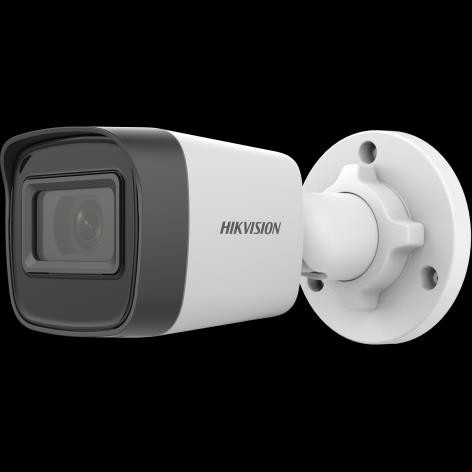
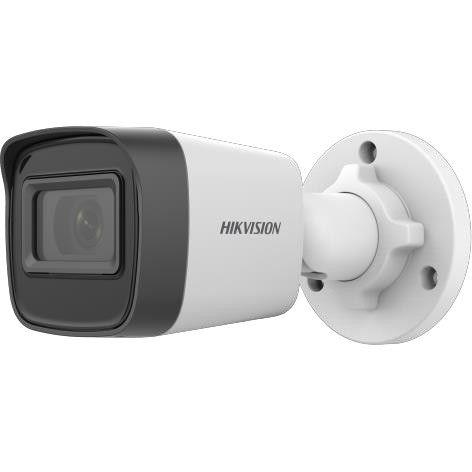
tienda: fotos de producto más compactas + Hikvision 2043G2 sobre blanco
- Tarjetas de Cámaras: la zona de foto pasa de aspect-ratio 1/1 (crecía a media
  pantalla) a alto fijo 210px desktop / 170px móvil, con object-fit contain y
  padding moderado. Así entran 3 tarjetas enteras en un viewport desktop. Badge,
  chips, botón y grid quedan igual, solo más compactos.
- La foto de la Hikvision DS-2CD2043G2-I venía sobre fondo NEGRO y desentonaba
  con las demás (blancas). No existe imagen oficial de Hikvision del modelo sobre
  blanco, pero su ficha PDF trae la foto con soft-mask (alfa): el script ahora
  aplica esa máscara para recortar la cámara del negro y aplanarla sobre blanco,
  quedando consistente. Sigue siendo el asset oficial, solo recompuesto.

Claude-Session: https://claude.ai/code/session_01HCYTTS2uuxYLtvFnNnqaSs

diff --git a/css/styles.css b/css/styles.css
@@ -2168,11 +2168,11 @@ main {
 }
 .producto-foto {
   background: #fff;                       /* la foto trae fondo blanco: se integra */
-  aspect-ratio: 1 / 1;
+  height: 210px;                          /* alto fijo: sin esto la foto crecía a media pantalla */
   display: flex;
   align-items: center;
   justify-content: center;
-  padding: 20px;
+  padding: 16px;
 }
 .producto-foto img {
   max-width: 100%;
@@ -2244,4 +2244,5 @@ main {
 .producto-cotizar:hover { background: #16b34a; }
 
 @media (max-width: 900px) { .productos-grid { grid-template-columns: repeat(2, 1fr); } }
+@media (max-width: 760px) { .producto-foto { height: 170px; padding: 14px; } }
 @media (max-width: 520px) { .productos-grid { grid-template-columns: 1fr; } }

diff --git a/scripts/fetch_product_images.py b/scripts/fetch_product_images.py
@@ -97,28 +97,36 @@ def _imagen_de_pdf(data):
         # Solo pagina 1; -all conserva el formato original de cada imagen embebida.
         subprocess.run(["pdfimages", "-all", "-f", "1", "-l", "1", pdf,
                         os.path.join(td, "img")], check=True, capture_output=True)
-        # La foto de producto es un lienzo CUADRADO (~472x472); el membrete de la
-        # ficha es una imagen apaisada tamaño-pagina, y los iconos/logos son
-        # chicos. Nos quedamos con la imagen mas grande de aspecto ~cuadrado.
-        candidatos = []
+        imgs = []
         for name in sorted(os.listdir(td)):
             if not name.startswith("img"):
                 continue
             try:
                 im = Image.open(os.path.join(td, name))
                 im.load()
-            except Exception:                      # noqa: BLE001 — mascaras/otros no-imagen
+            except Exception:                      # noqa: BLE001 — no-imagen
                 continue
-            w, h = im.size
-            if min(w, h) < 250:                    # iconos, logos, miniaturas fuera
-                continue
-            if max(w, h) / min(w, h) > 1.35:       # membretes/fondos de pagina fuera
-                continue
-            candidatos.append((w * h, im.copy()))
-        if not candidatos:
-            raise ValueError("no se hallo una foto de producto (cuadrada, >=250px) en la pagina 1 del PDF")
-        candidatos.sort(key=lambda c: -c[0])
-        return candidatos[0][1]
+            imgs.append(im)
+        # La foto de producto es una imagen a COLOR de aspecto ~cuadrado y grande;
+        # el membrete de la ficha es apaisado tamaño-pagina y los iconos, chicos.
+        color = [im for im in imgs
+                 if im.mode not in ("L", "1", "LA")
+                 and min(im.size) >= 250
+                 and max(im.size) / min(im.size) <= 1.35]
+        if not color:
+            raise ValueError("no se hallo una foto de producto (a color, cuadrada, >=250px) en la pagina 1 del PDF")
+        color.sort(key=lambda im: -(im.size[0] * im.size[1]))
+        prod = color[0].convert("RGB")
+        # Soft-mask: algunas fichas (Hikvision) traen la foto sobre fondo NEGRO con
+        # una mascara alfa —una imagen en gris del MISMO tamaño— que la recorta. Si
+        # existe, la aplicamos: el fondo negro pasa a transparente y normalizar() lo
+        # aplana sobre blanco, quedando consistente con las demas fotos.
+        mask = next((im for im in imgs
+                     if im.mode in ("L", "1") and im.size == prod.size), None)
+        if mask is not None:
+            prod = prod.copy()
+            prod.putalpha(mask.convert("L"))
+        return prod
 
 
 def parece_placeholder(im):
